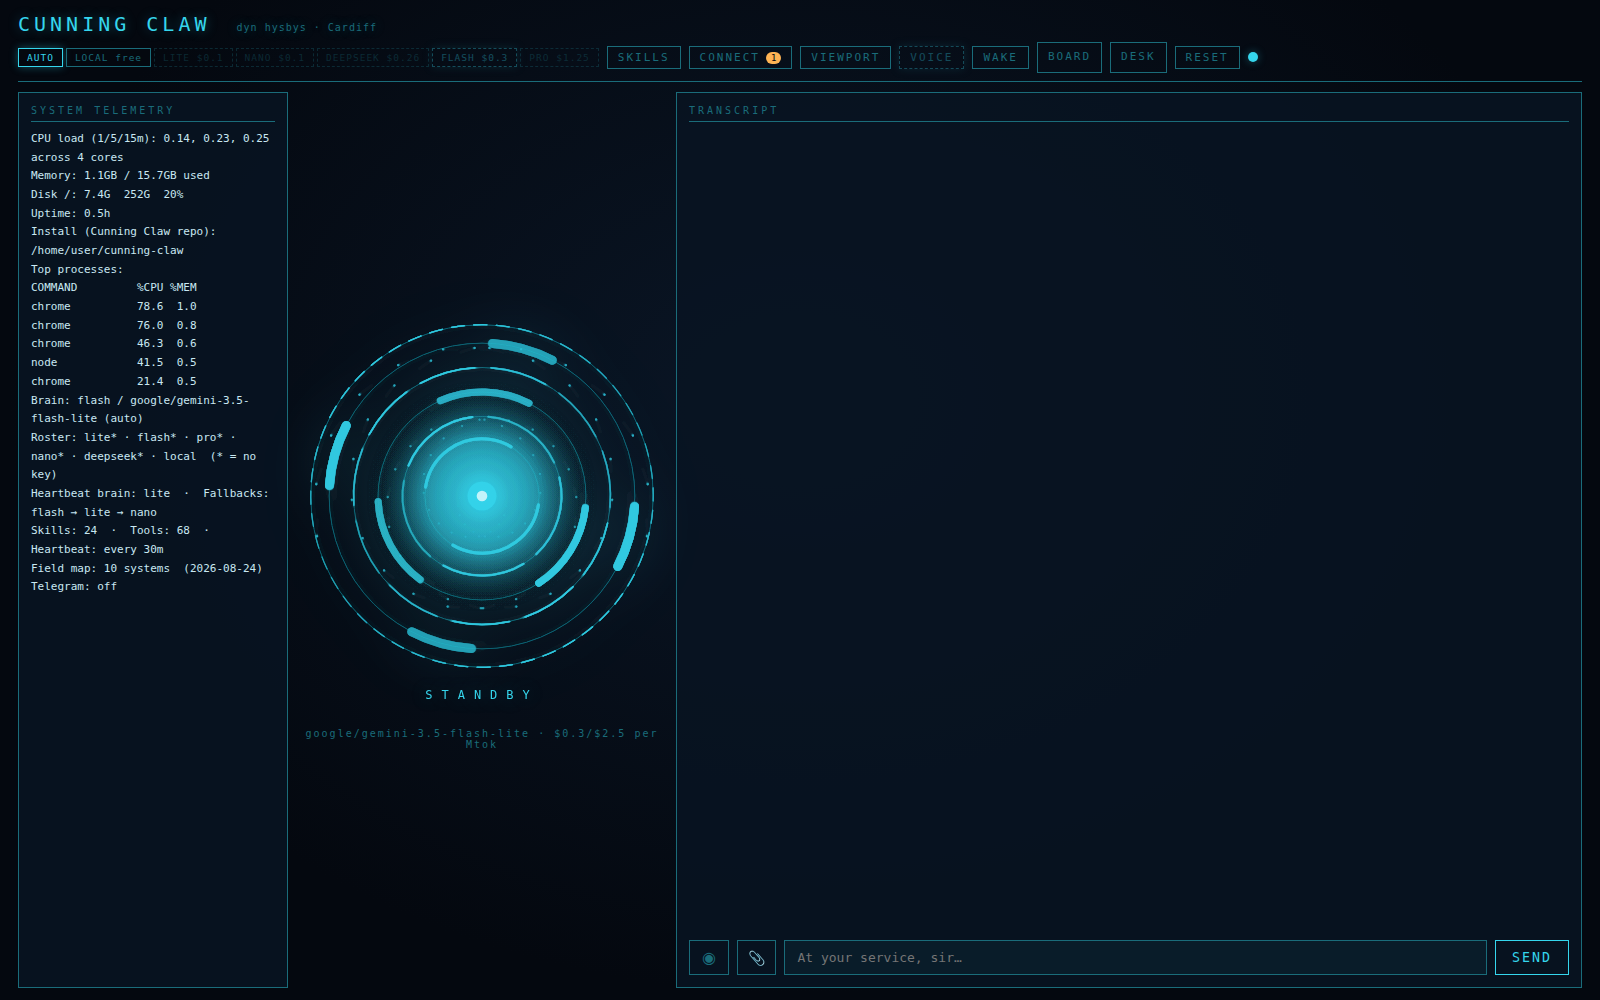
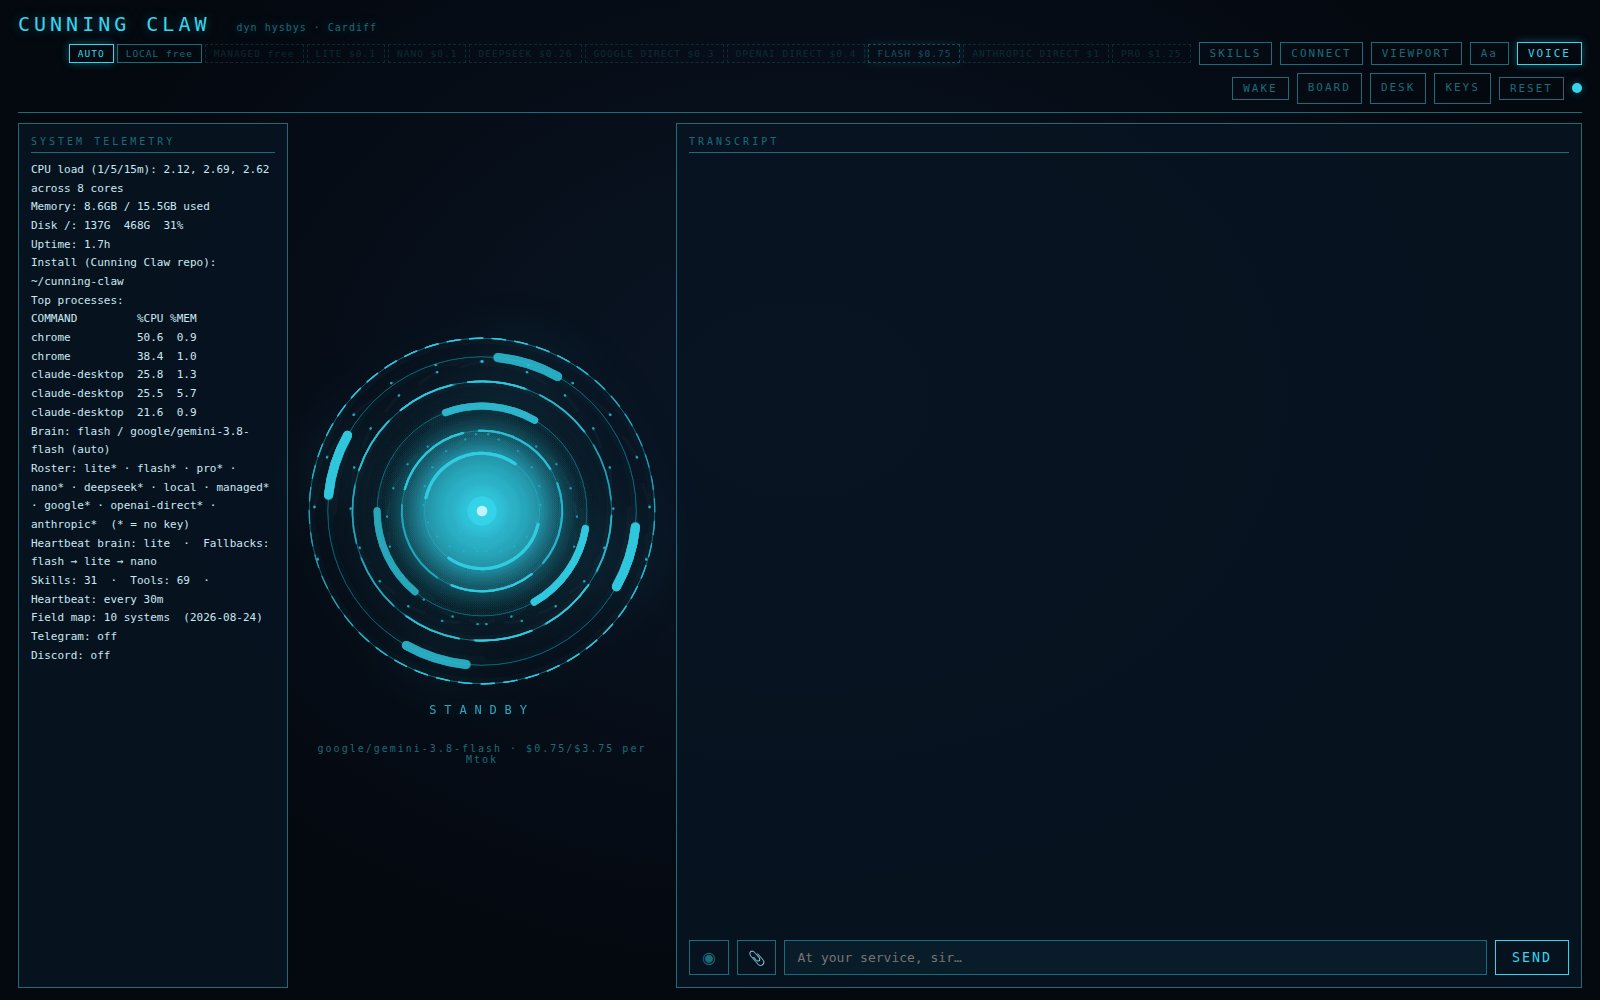
Site: re-shoot the HUD and skills pictures from a fresh install
Both showed google/gemini-3.5-flash-lite at $0.3/$2.5, Skills: 24 and
Tools: 68, under captions that said otherwise. Re-shot per site/README.md:
a clean clone with an empty HOME and data dir, no keys, no Telegram, at the
original 1600x1000. The skills picture's alt text said twenty-four; it
says thirty-one, as the sheet does.

diff --git a/site/index.html b/site/index.html
@@ -294,7 +294,7 @@ footer .mono{font-family:var(--mono);font-size:.74rem;letter-spacing:.12em}
     <p class="lede">Every capture below is the real software on a fresh install — no keys, no accounts, nothing staged. What you see is what a first run looks like.</p>
     <div class="rooms holo-stage atmos">
       <figure class="holo" data-holo="pane"><img src="connect.png" alt="The connectors sheet: ninety-four MCP servers with Lovable and v0 on the Popular row" width="1600" height="1000" loading="lazy"><figcaption><b>CONNECT</b>Ninety-four MCP connectors from one sheet — Canva, Lovable, v0, GitHub, Notion, Slack, Figma, Stripe, Xero. Seeing a name doesn't connect it; Connect writes the config and signs you in through your own browser.</figcaption></figure>
-      <figure class="holo" data-holo="pane"><img src="skills.png" alt="The skills sheet: twenty-four skills with descriptions" width="1600" height="1000" loading="lazy"><figcaption><b>SKILLS</b>Thirty-one skills as plain <code>SKILL.md</code> files — accounts, browser, code, desk, glance, house, inbox, a second machine. Click one to arm it. It writes its own after a job it has not done before.</figcaption></figure>
+      <figure class="holo" data-holo="pane"><img src="skills.png" alt="The skills sheet: thirty-one skills with descriptions" width="1600" height="1000" loading="lazy"><figcaption><b>SKILLS</b>Thirty-one skills as plain <code>SKILL.md</code> files — accounts, browser, code, desk, glance, house, inbox, a second machine. Click one to arm it. It writes its own after a job it has not done before.</figcaption></figure>
       <figure class="holo" data-holo="pane"><img src="board.png" alt="The Forge Board: weather, the claw's state, this machine, spend, and the commit log" width="1600" height="1000" loading="lazy"><figcaption><b>BOARD</b>The Forge Board — today's weather, which brain is thinking, the machine's load, the session's spend to the cent, the project's commits, and what he did. Boxes appear here when you give him one.</figcaption></figure>
       <figure class="holo" data-holo="pane"><img src="desk.png" alt="The Desk: a markdown document open in the editor" width="1600" height="1000" loading="lazy"><figcaption><b>DESK</b>The Desk — his documents and yours, as markdown on your own disk. Ask for a letter, a plan, a briefing; it lands here, you edit it here. Never deleted, only binned.</figcaption></figure>
     </div>
